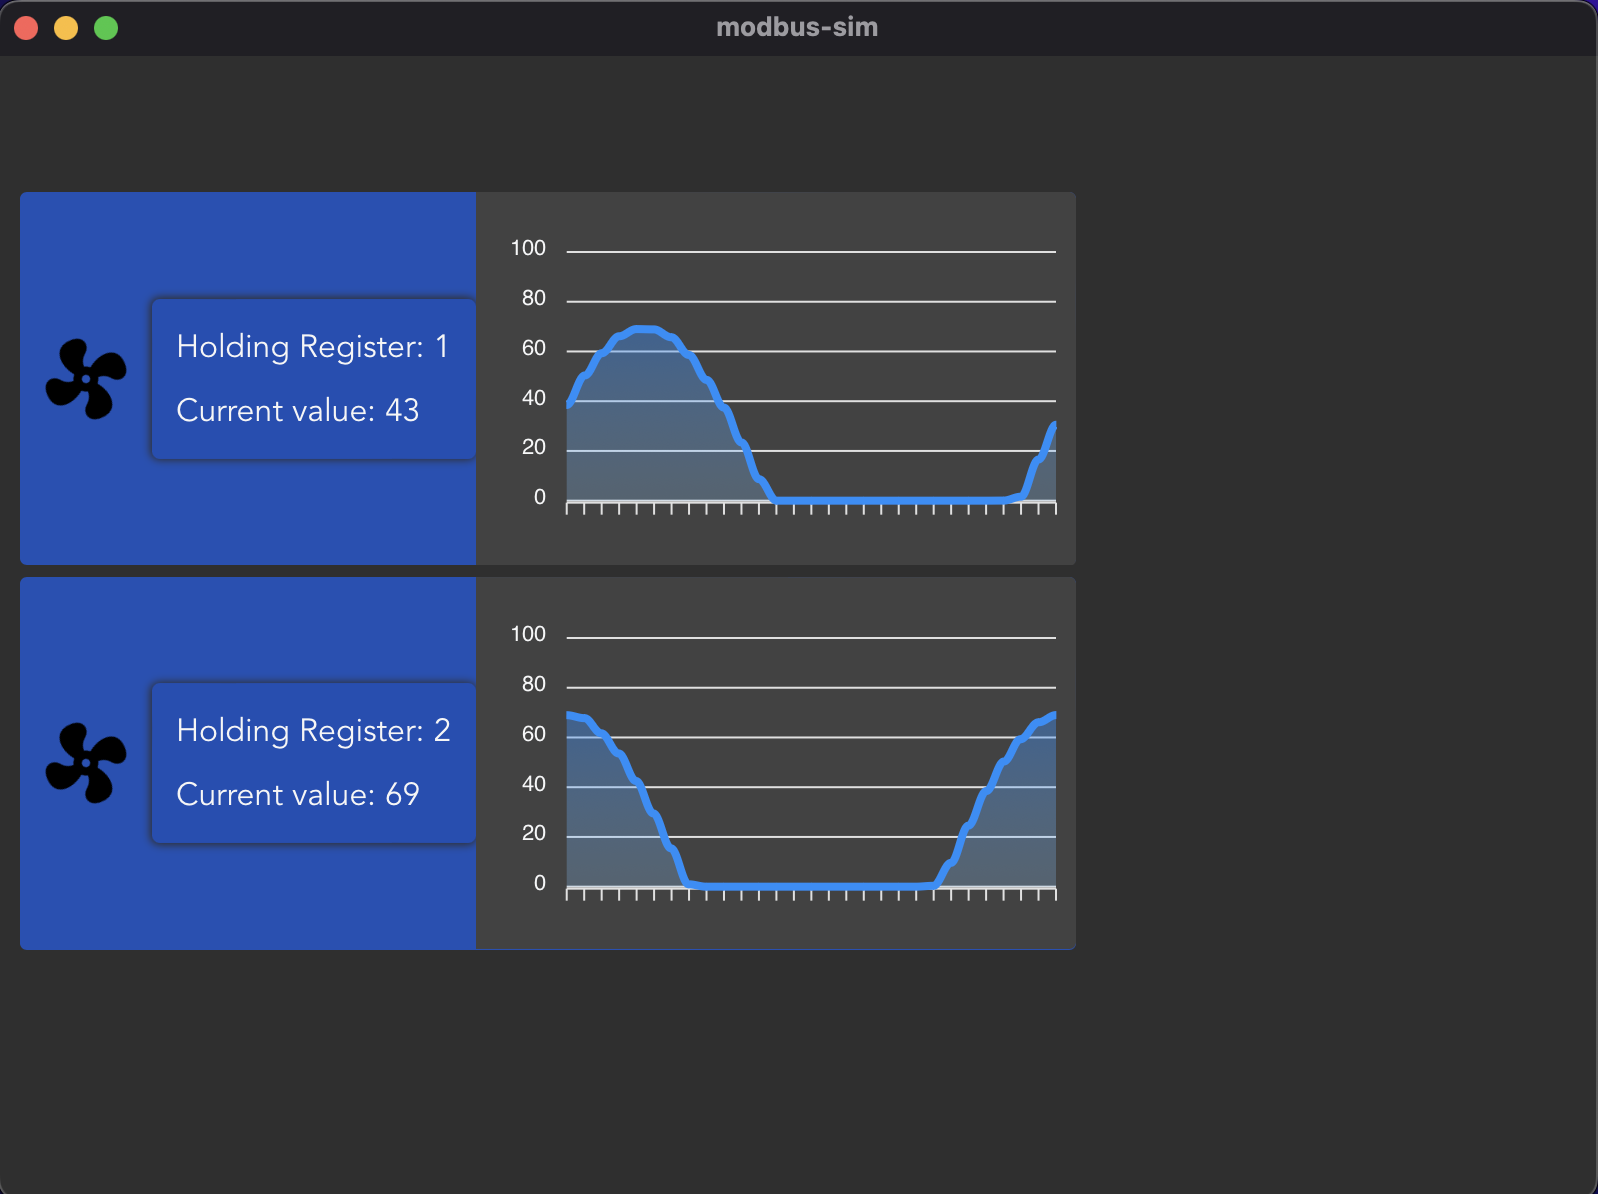
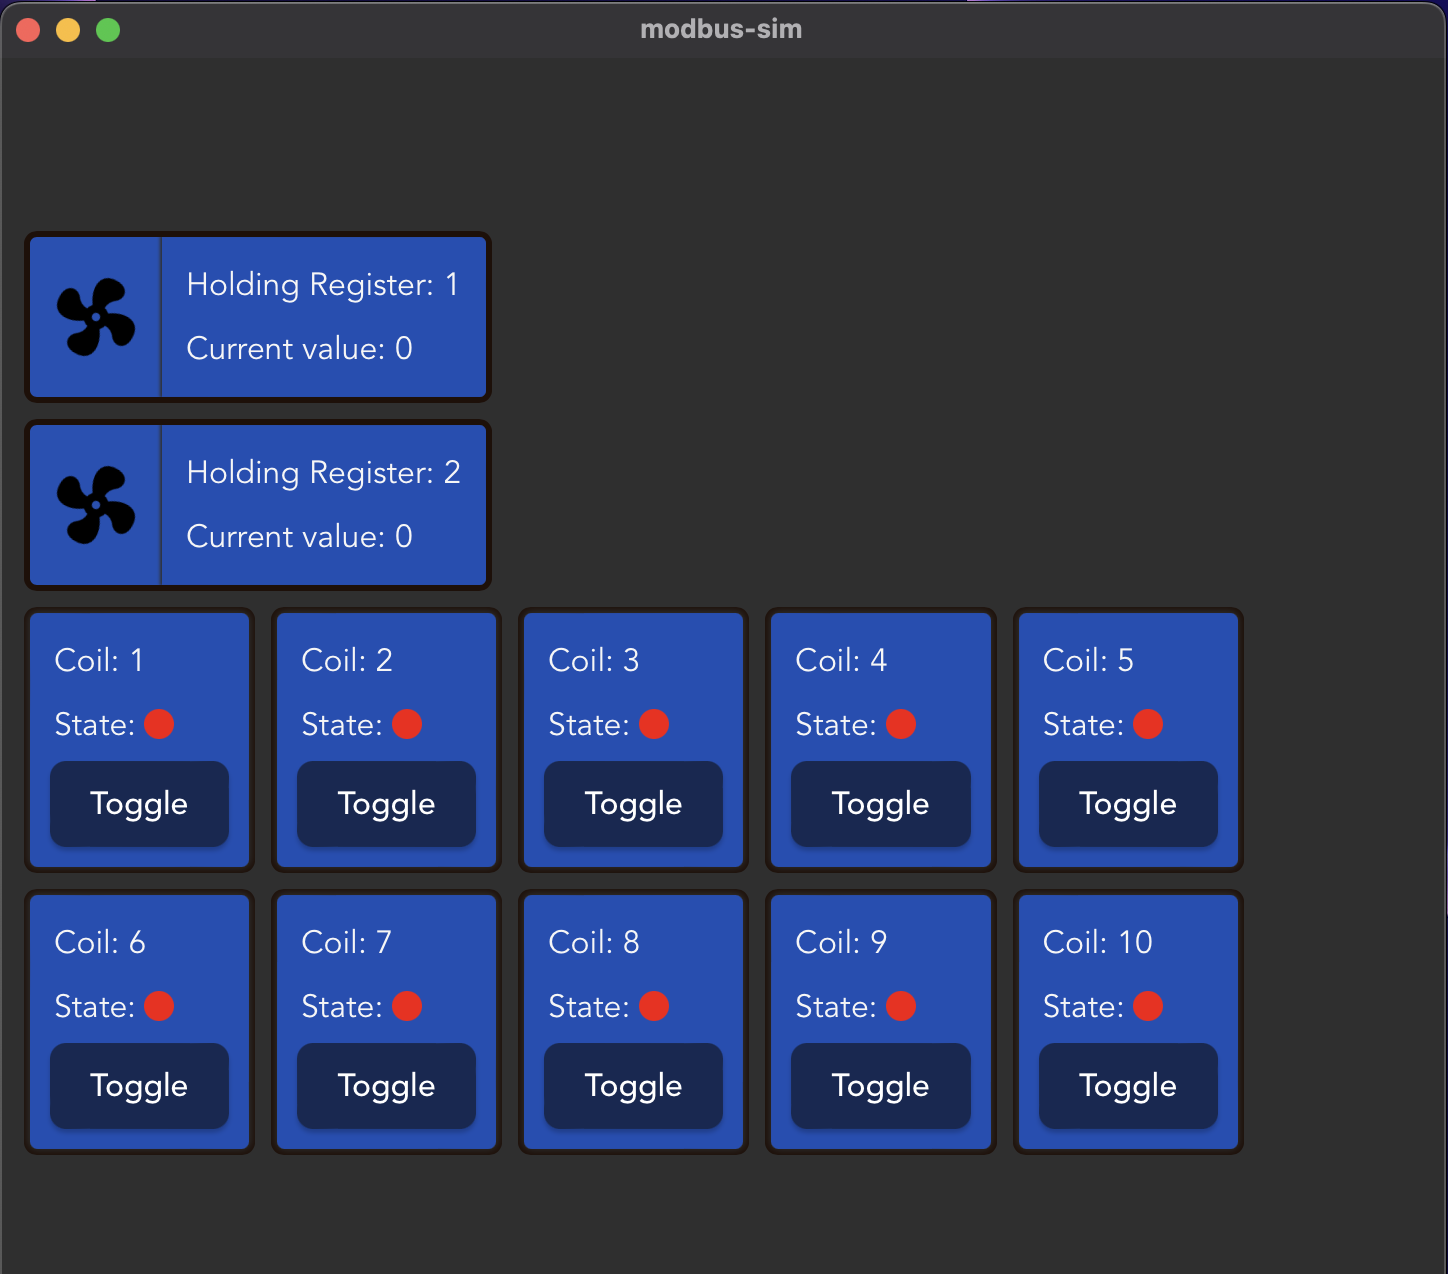
Remove more chart refs and update screenshot

diff --git a/src/main.ts b/src/main.ts
@@ -1,9 +1,6 @@
 import { createApp } from "vue";
 import "./styles.css";
 import App from "./App.vue";
-import VueApexCharts from "vue3-apexcharts";
-
 
 const app = createApp(App);
-app.use(VueApexCharts);
 app.mount("#app");
